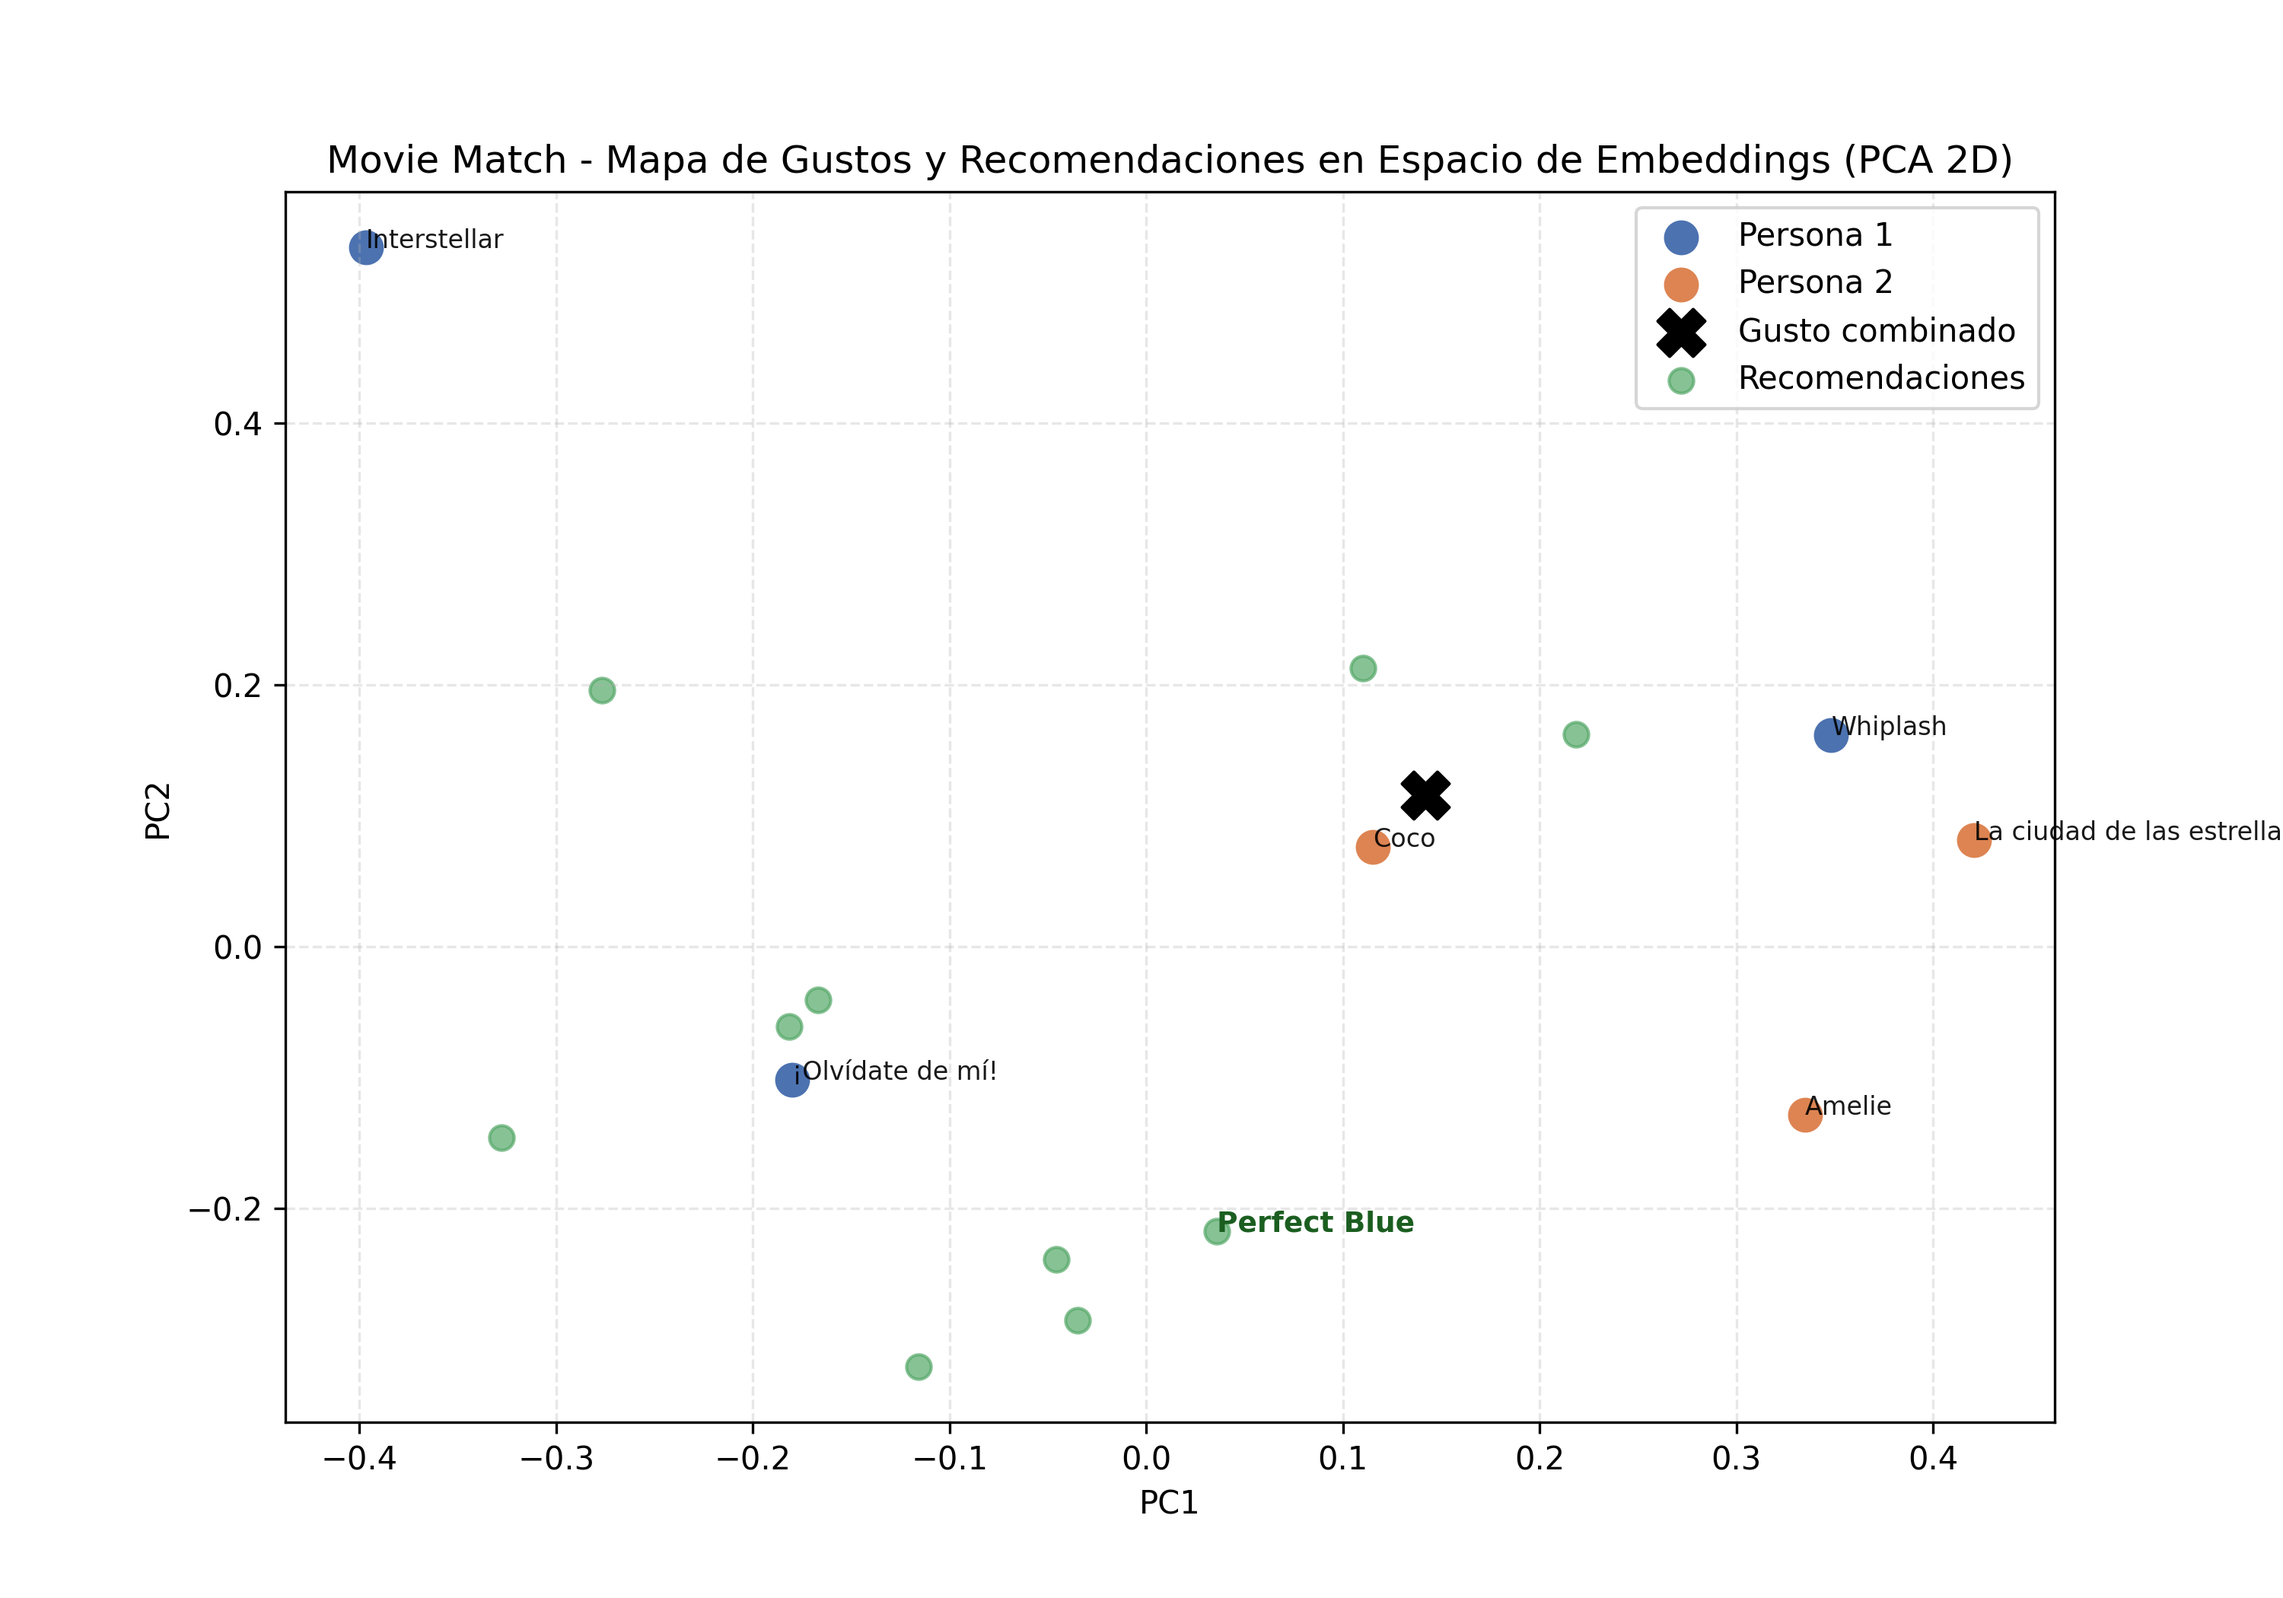
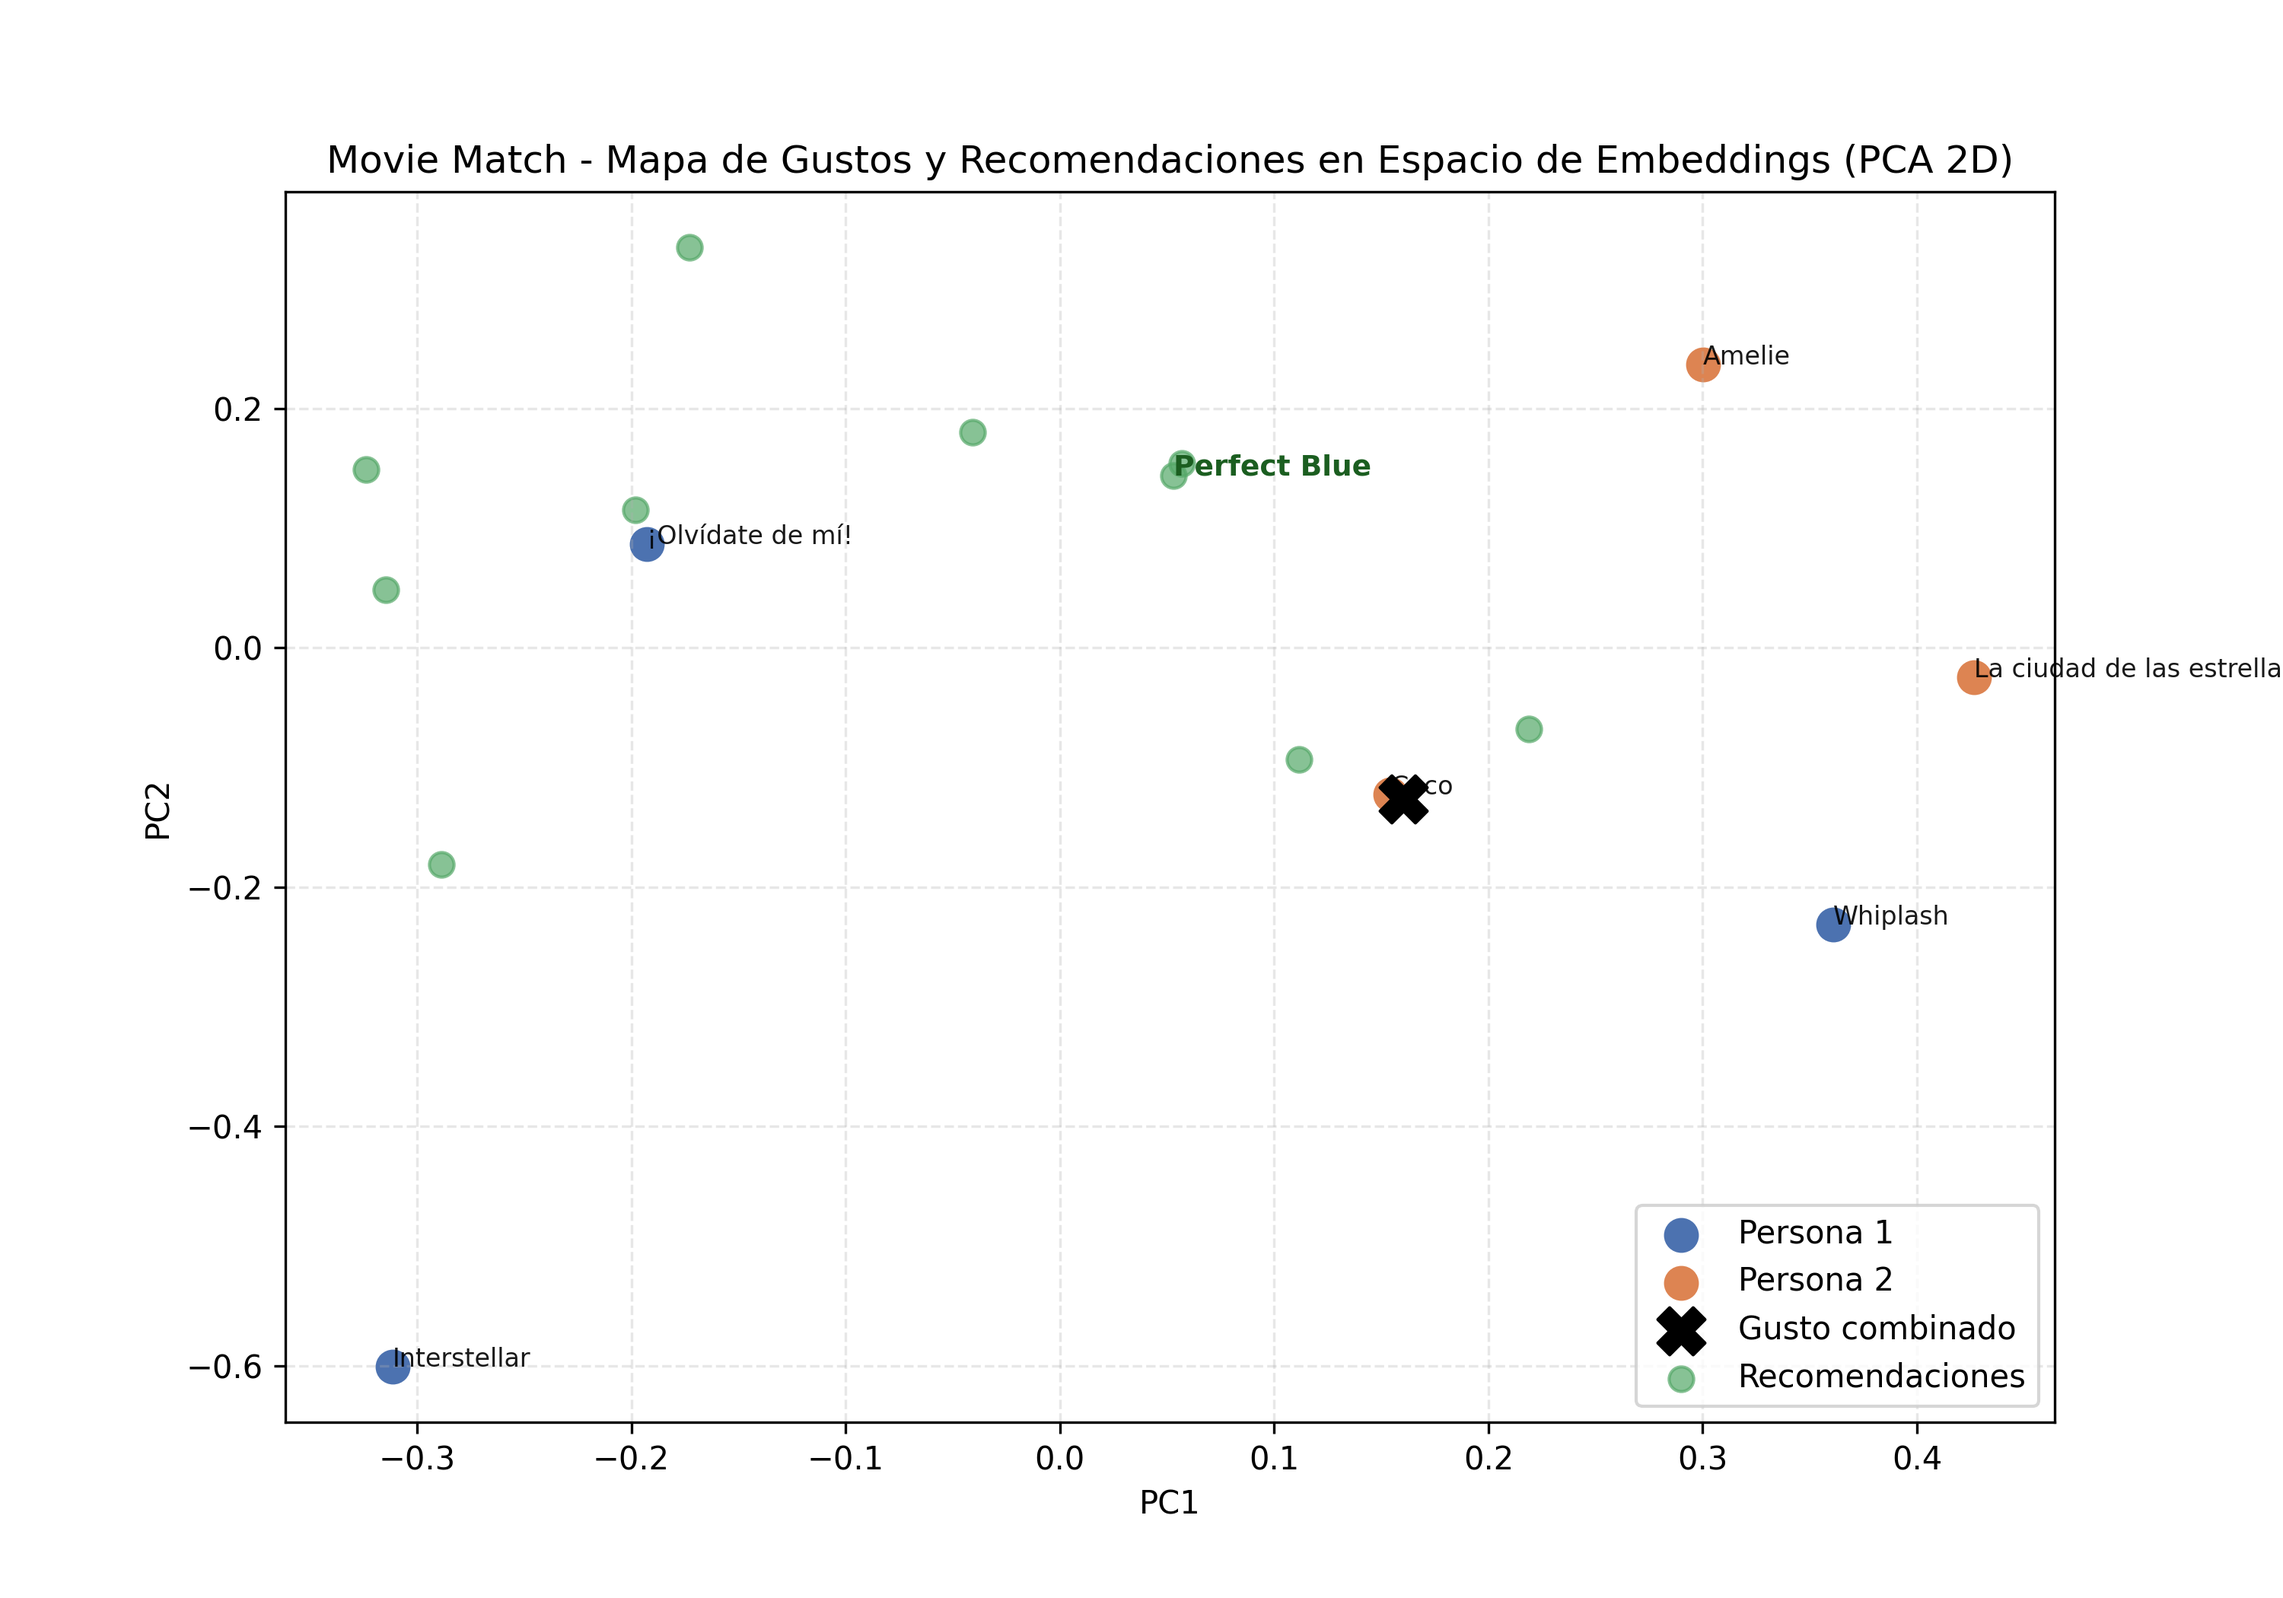
feat: agregar filtros por rango de año de estreno y calificación mínima de TMDB

diff --git a/movie_match.py b/movie_match.py
@@ -213,6 +213,7 @@ def get_candidate_pool(n_pages: int = 5, region: str = "AR", fetch_providers: bo
                         "title": m["title"],
                         "overview": m["overview"],
                         "vote_average": m.get("vote_average"),
+                        "release_date": m.get("release_date", ""),
                         "poster_path": m.get("poster_path"),
                         "genre_ids": m.get("genre_ids", []),
                         "providers": [],
@@ -240,10 +241,13 @@ def recommend(
     n_pages_pool: int = 5,
     selected_provider: Optional[str] = None,
     selected_genre: Optional[str] = None,
+    min_year: Optional[int] = None,
+    max_year: Optional[int] = None,
+    min_vote_average: float = 0.0,
     region: str = "AR",
 ) -> tuple[pd.DataFrame, dict]:
     """
-    Calcula recomendaciones cruzando los gustos de N personas con filtros opcionales de plataforma y género.
+    Calcula recomendaciones cruzando los gustos de N personas con filtros opcionales de plataforma, género, año y calificación.
     """
     taste_vectors = []
     all_found_movies = []
@@ -268,8 +272,6 @@ def recommend(
     # Filtrar por plataforma si fue seleccionada
     if selected_provider and selected_provider != "Todas las plataformas":
         pool_filtered = [m for m in pool_filtered if matches_provider(selected_provider, m.get("providers", []))]
-        if not pool_filtered:
-            print(f"[WARNING] No se encontraron películas disponibles en {selected_provider!r}.")
 
     # Filtrar por género si fue seleccionado
     if selected_genre and selected_genre != "Todos los géneros":
@@ -279,8 +281,23 @@ def recommend(
             pool_filtered = [m for m in pool_filtered if target_id in m.get("genre_ids", [])]
         else:
             pool_filtered = [m for m in pool_filtered if selected_genre in m.get("genres", [])]
-        if not pool_filtered:
-            print(f"[WARNING] No se encontraron películas del género {selected_genre!r}.")
+
+    # Filtrar por calificación mínima TMDB
+    if min_vote_average > 0.0:
+        pool_filtered = [m for m in pool_filtered if (m.get("vote_average") or 0.0) >= min_vote_average]
+
+    # Filtrar por rango de años de estreno
+    if min_year is not None or max_year is not None:
+        def _year_ok(m):
+            rd = m.get("release_date", "")
+            if rd and len(rd) >= 4 and rd[:4].isdigit():
+                y = int(rd[:4])
+                if min_year is not None and y < min_year:
+                    return False
+                if max_year is not None and y > max_year:
+                    return False
+            return True
+        pool_filtered = [m for m in pool_filtered if _year_ok(m)]
 
     if not pool_filtered:
         filters_desc = []
@@ -288,10 +305,14 @@ def recommend(
             filters_desc.append(f"plataforma '{selected_provider}'")
         if selected_genre and selected_genre != "Todos los géneros":
             filters_desc.append(f"género '{selected_genre}'")
-        f_str = " y ".join(filters_desc) if filters_desc else "seleccionados"
+        if min_vote_average > 0.0:
+            filters_desc.append(f"puntuación mínima ⭐ {min_vote_average}")
+        if min_year or max_year:
+            filters_desc.append(f"rango de años {min_year or 'inicio'}-{max_year or 'actual'}")
+        f_str = ", ".join(filters_desc) if filters_desc else "seleccionados"
         raise ValueError(
             f"No hay películas disponibles en el catálogo para los filtros de {f_str}. "
-            "Probá seleccionando 'Todos los géneros' / 'Todas las plataformas' o ampliando las páginas de búsqueda."
+            "Probá flexibilizar los filtros en la barra lateral."
         )
 
     # Calcular embeddings y similitud coseno
@@ -319,8 +340,15 @@ def recommend(
     else:
         df_results["genres_str"] = "Sin género"
 
-    df_results = df_results[["title", "score", "vote_average", "genres_str", "providers_str", "overview"]]
-    df_results.rename(columns={"providers_str": "providers", "genres_str": "genres"}, inplace=True)
+    if "release_date" in df_results.columns:
+        df_results["year_str"] = df_results["release_date"].apply(
+            lambda d: d[:4] if isinstance(d, str) and len(d) >= 4 else "N/A"
+        )
+    else:
+        df_results["year_str"] = "N/A"
+
+    df_results = df_results[["title", "year_str", "score", "vote_average", "genres_str", "providers_str", "overview"]]
+    df_results.rename(columns={"providers_str": "providers", "genres_str": "genres", "year_str": "Año"}, inplace=True)
     df_results["score"] = df_results["score"].round(3)
 
     extra_data = {
@@ -330,6 +358,9 @@ def recommend(
         "top_recommendations": top_recommendations,
         "selected_provider": selected_provider,
         "selected_genre": selected_genre,
+        "min_year": min_year,
+        "max_year": max_year,
+        "min_vote_average": min_vote_average,
         "region": region,
     }
 
@@ -416,6 +447,9 @@ if __name__ == "__main__":
     parser.add_argument("--demo", action="store_true", help="Ejecutar con datos de prueba predeterminados")
     parser.add_argument("--provider", type=str, default="Todas las plataformas", help="Filtrar por plataforma (ej: Netflix, Disney Plus, Max)")
     parser.add_argument("--genre", type=str, default="Todos los géneros", help="Filtrar por género (ej: Acción, Comedia, Ciencia ficción)")
+    parser.add_argument("--min-year", type=int, default=None, help="Año mínimo de estreno")
+    parser.add_argument("--max-year", type=int, default=None, help="Año máximo de estreno")
+    parser.add_argument("--min-vote", type=float, default=0.0, help="Puntuación mínima de TMDB (0 a 10)")
     parser.add_argument("--region", type=str, default="AR", help="Código de país para disponibilidad (ej: AR, ES, MX, US)")
     args = parser.parse_args()
 
@@ -437,13 +471,22 @@ if __name__ == "__main__":
             p1 = ["Interstellar", "Eternal Sunshine of the Spotless Mind", "Whiplash"]
             p2 = ["Coco", "La La Land", "Amelie"]
 
-    print(f"\nProcesando gustos y consultando TMDB (Plataforma: {args.provider}, Género: {args.genre}, País: {args.region})...")
-    df_recs, extra = recommend([p1, p2], selected_provider=args.provider, selected_genre=args.genre, region=args.region)
+    print(f"\nProcesando gustos y consultando TMDB (Plataforma: {args.provider}, Género: {args.genre}, Años: {args.min_year}-{args.max_year}, Nota Mín: {args.min_vote}, País: {args.region})...")
+    df_recs, extra = recommend(
+        [p1, p2],
+        selected_provider=args.provider,
+        selected_genre=args.genre,
+        min_year=args.min_year,
+        max_year=args.max_year,
+        min_vote_average=args.min_vote,
+        region=args.region,
+    )
     
     print("\nTop Recomendaciones:")
     print(df_recs.to_string(index=False))
 
     save_plot_path = args.save_plot or "mapa_gustos.png"
     plot_taste_map(extra, save_path=save_plot_path)
+
 
 

diff --git a/app.py b/app.py
@@ -127,6 +127,49 @@ selected_genre = st.sidebar.selectbox(
     help="Si seleccionás un género, solo se recomendarán películas pertenecientes a esa categoría."
 )
 
+st.sidebar.markdown("---")
+st.sidebar.subheader("📅 Año de Estreno")
+min_year, max_year = st.sidebar.slider(
+    "Rango de Años de Estreno",
+    min_value=1950,
+    max_value=2026,
+    value=(1970, 2026),
+    step=1,
+    help="Filtra películas estrenadas dentro de este rango de años."
+)
+
+st.sidebar.markdown("---")
+st.sidebar.subheader("⭐ Calificación Mínima (TMDB)")
+min_vote = st.sidebar.slider(
+    "Puntuación Mínima (0 a 10)",
+    min_value=0.0,
+    max_value=10.0,
+    value=6.0,
+    step=0.5,
+    help="Solo se recomendarán películas con una calificación media mayor o igual a este valor en TMDB."
+)
+
+@st.cache_data(show_spinner=False, ttl=3600)
+def cached_recommend(
+    p1_tuple: tuple[str, ...],
+    p2_tuple: tuple[str, ...],
+    selected_provider: str,
+    selected_genre: str,
+    min_year: int,
+    max_year: int,
+    min_vote: float,
+    region: str,
+):
+    return recommend(
+        [list(p1_tuple), list(p2_tuple)],
+        selected_provider=selected_provider,
+        selected_genre=selected_genre,
+        min_year=min_year,
+        max_year=max_year,
+        min_vote_average=min_vote,
+        region=region,
+    )
+
 col1, col2 = st.columns(2)
 
 with col1:
@@ -163,6 +206,9 @@ if st.button("Buscar Recomendaciones"):
                     tuple(p2_list),
                     selected_provider=selected_provider,
                     selected_genre=selected_genre,
+                    min_year=min_year,
+                    max_year=max_year,
+                    min_vote=min_vote,
                     region=selected_region,
                 )
                 top_recs = extra["top_recommendations"]
@@ -172,6 +218,10 @@ if st.button("Buscar Recomendaciones"):
                     filters_info.append(f"Plataforma: **{selected_provider}** ({selected_region_label})")
                 if selected_genre != "Todos los géneros":
                     filters_info.append(f"Género: **{selected_genre}**")
+                if min_year > 1950 or max_year < 2026:
+                    filters_info.append(f"Años: **{min_year} - {max_year}**")
+                if min_vote > 0.0:
+                    filters_info.append(f"Nota mín.: **⭐ {min_vote}**")
 
                 if filters_info:
                     st.info("🍿 **Filtros activos:** " + " | ".join(filters_info))
@@ -191,10 +241,11 @@ if st.button("Buscar Recomendaciones"):
                                 else "https://via.placeholder.com/500x750?text=No+Poster"
                             )
                             st.image(poster_url, use_container_width=True)
-                            st.markdown(f"**{m['title']}**")
+                            year_badge = f" ({m['release_date'][:4]})" if m.get("release_date") and len(m["release_date"]) >= 4 else ""
+                            st.markdown(f"**{m['title']}**{year_badge}")
                             match_pct = int(m['score'] * 100)
                             st.markdown(f"<span class='score-badge'>Match: {match_pct}%</span>", unsafe_allow_html=True)
-                            st.caption(f"Rating: {m.get('vote_average', 'N/A')} / 10")
+                            st.caption(f"⭐ Rating: **{m.get('vote_average', 'N/A')}** / 10")
                             
                             g_list = m.get("genres", [])
                             if g_list:
@@ -228,4 +279,5 @@ if st.button("Buscar Recomendaciones"):
 
             except Exception as e:
                 st.error(f"Ocurrió un error al procesar las recomendaciones: {e}")
+
 
